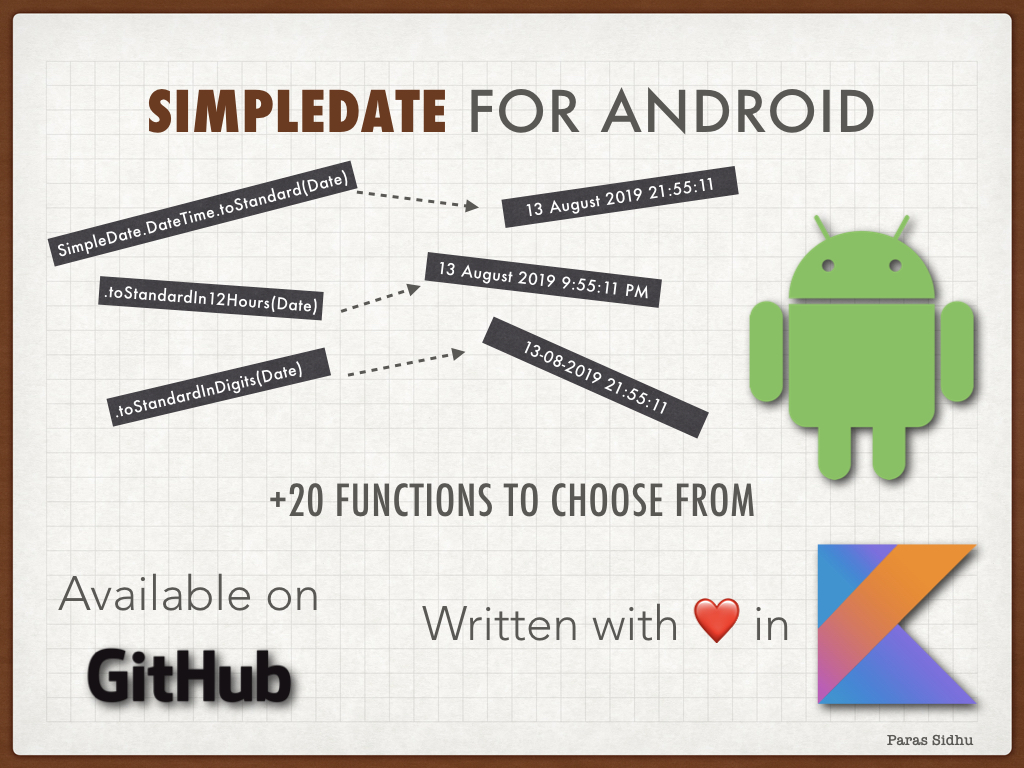
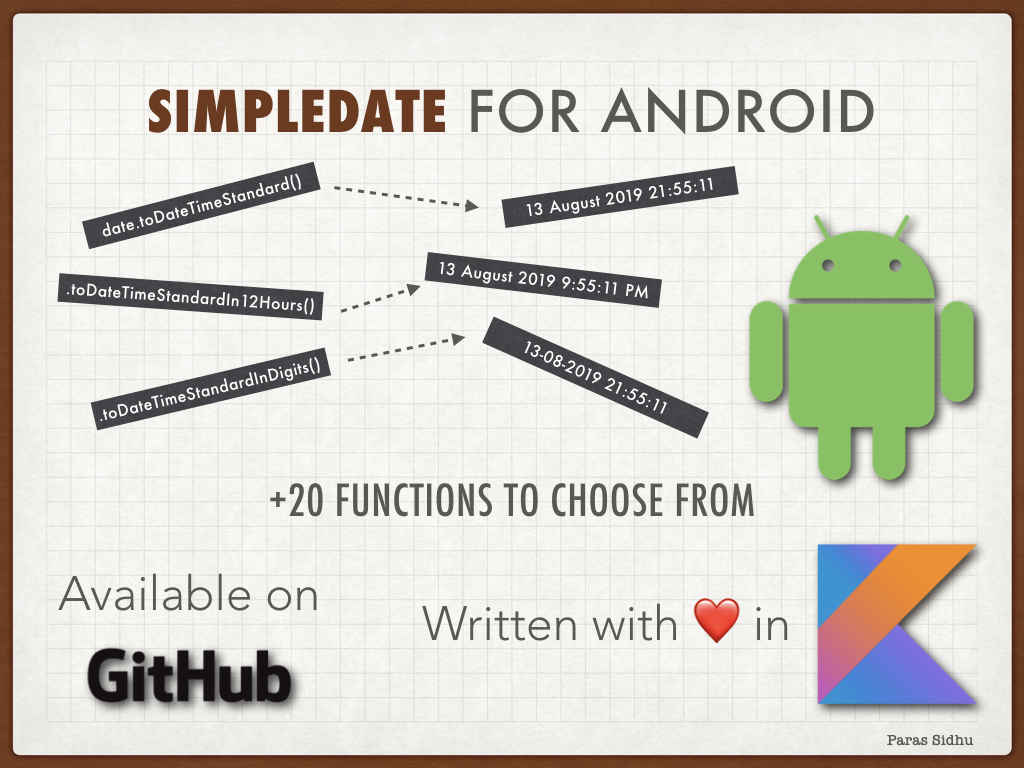
Update Main Method and README

Changed region(s): [[0.0312, 0.1875, 0.375, 0.4062], [0.0938, 0.4688, 0.3125, 0.5625], [0.4062, 0.4375, 0.4688, 0.4688]]

diff --git a/simpledate/src/main/java/com/parassidhu/simpledate/SimpleDate.kt b/simpledate/src/main/java/com/parassidhu/simpledate/SimpleDate.kt
@@ -5,36 +5,36 @@ import java.util.*
 
 private lateinit var simpleDateFormat: SimpleDateFormat
 
-fun main() {
+/*fun main() {
     val date = Date()
 
-    /*println(SimpleDate.DateTime.toStandard(date))
-    println(SimpleDate.DateTime.toStandardIn12Hours(date))
-    println(SimpleDate.DateTime.toStandardInDigits(date))
-    println(SimpleDate.DateTime.toStandardInDigitsAnd12Hours(date))
-    println(SimpleDate.DateTime.toStandardConcise(date))
-    println(SimpleDate.DateTime.toStandardConciseIn12Hours(date))
-    println(SimpleDate.DateTime.toYY(date))
-    println(SimpleDate.DateTime.toYYIn12Hours(date))
-    println(SimpleDate.DateTime.toYYInDigits(date))
-    println(SimpleDate.DateTime.toYYInDigitsAnd12Hours(date))
-    println(SimpleDate.DateTime.toYYConcise(date))
-    println(SimpleDate.DateTime.toYYConciseIn12Hours(date))
+    println(date.toDateTimeStandard())
+    println(date.toDateTimeStandardIn12Hours())
+    println(date.toDateTimeStandardInDigits())
+    println(date.toDateTimeStandardInDigitsAnd12Hours())
+    println(date.toDateTimeStandardConcise())
+    println(date.toDateTimeStandardConciseIn12Hours())
+    println(date.toDateTimeYY())
+    println(date.toDateTimeYYIn12Hours())
+    println(date.toDateTimeYYInDigits())
+    println(date.toDateTimeYYInDigitsAnd12Hours())
+    println(date.toDateTimeYYConcise())
+    println(date.toDateTimeYYConciseIn12Hours())
     println("-----------------------------------------")
-    println(SimpleDate.Time.toStandard(date))
-    println(SimpleDate.Time.toStandardWithoutSeconds(date))
-    println(SimpleDate.Time.toStandardIn12Hours(date))
-    println(SimpleDate.Time.toStandardIn12HoursWithoutSeconds(date))
+    println(date.toTimeStandard())
+    println(date.toTimeStandardWithoutSeconds())
+    println(date.toTimeStandardIn12Hours())
+    println(date.toTimeStandardIn12HoursWithoutSeconds())
     println("-----------------------------------------")
-    println(SimpleDate.Date.toStandard(date))
-    println(SimpleDate.Date.toStandardConcise(date))
-    println(SimpleDate.Date.toStandardInDigits(date))
-    println(SimpleDate.Date.toYY(date))
-    println(SimpleDate.Date.toYYConcise(date))
-    println(SimpleDate.Date.toYYInDigits(date))
+    println(date.toDateStandard())
+    println(date.toDateStandardConcise())
+    println(date.toDateStandardInDigits())
+    println(date.toDateYY())
+    println(date.toDateYYConcise())
+    println(date.toDateYYInDigits())
     println("-----------------------------------------")
-    println(SimpleDate.Day.toDay(date))*/
-}
+    println(date.toDay())
+}*/
 
 // -------------------------- DateTime --------------------------
 
@@ -155,9 +155,9 @@ fun Date?.toDateYYInDigits(): String {
 
 // -------------------------- Day --------------------------
 
-fun toDay(date: Date?): String {
+fun Date?.toDay(): String {
     val pattern = "EEEE"
-    return dateAsString(date, pattern)
+    return dateAsString(this, pattern)
 }
 // ---------------------------------------------------------
 

diff --git a/README.md b/README.md
@@ -26,44 +26,65 @@ dependencies {
 }
 ```
 
+## Version 2.0+ Backward Incompatible
+
+`SimpleDate` uses Kotlin Extension Functions since Version 2.0. This makes it incompatible with the older versions of the library. But thanks to extension functions, the API looks very clean on Kotlin as well as Java. 
+
 ## Usage
 
-As an input, you only need a Date object. Following are the available functions:
+You can use the methods on a date object. Following are the available functions:
 
+### For Date and Time
 ```kotlin
-SimpleDate.DateTime                                 
-                    .toStandard(date)               // 13 August 2019 21:55:11
-                    .toStandardIn12Hours(date)      // 13 August 2019 9:55:11 PM
-                    .toStandardInDigits(date)       // 13-08-2019 21:55:11
-                    .toStandardInDigitsAnd12Hours(date)     // 13-08-2019 9:55:11 PM
-                    .toStandardConcise(date)                // 13 Aug 2019 21:55:11
-                    .toStandardConciseIn12Hours(date)       // 13 Aug 2019 9:55:11 PM
-                    .toYY(date)                     // 13 August 19 21:55:11
-                    .toYYIn12Hours(date)            // 13 August 19 9:55:11 PM
-                    .toYYInDigits(date)             // 13-08-19 21:55:11
-                    .toYYInDigitsAnd12Hours(date)   // 13-08-19 9:55:11 PM
-                    .toYYConcise(date)              // 13 Aug 19 21:55:11
-                    .toYYConciseIn12Hours(date)     // 13 Aug 19 9:55:11 PM
+date                                 
+     .toDateTimeStandard()               // 13 August 2019 21:55:11
+     .toDateTimeStandardIn12Hours()      // 13 August 2019 9:55:11 PM
+     .toDateTimeStandardInDigits()       // 13-08-2019 21:55:11
+     .toDateTimeStandardInDigitsAnd12Hours()     // 13-08-2019 9:55:11 PM
+     .toDateTimeStandardConcise()                // 13 Aug 2019 21:55:11
+     .toDateTimeStandardConciseIn12Hours()       // 13 Aug 2019 9:55:11 PM
+     .toDateTimeYY()                     // 13 August 19 21:55:11
+     .toDateTimeYYIn12Hours()            // 13 August 19 9:55:11 PM
+     .toDateTimeYYInDigits()             // 13-08-19 21:55:11
+     .toDateTimeYYInDigitsAnd12Hours()   // 13-08-19 9:55:11 PM
+     .toDateTimeYYConcise()              // 13 Aug 19 21:55:11
+     .toDateTimeYYConciseIn12Hours()     // 13 Aug 19 9:55:11 PM
                     
 ```
+### For Time Only
 ```kotlin
-SimpleDate.Time
-                    .toStandard(date)                           // 21:55:11
-                    .toStandardWithoutSeconds(date)             // 21:55
-                    .toStandardIn12Hours(date)                  // 9:55:11 PM
-                    .toStandardIn12HoursWithoutSeconds(date)    // 9:55 PM
+date
+     .toTimeStandard()                           // 21:55:11
+     .toTimeStandardWithoutSeconds()             // 21:55
+     .toTimeStandardIn12Hours()                  // 9:55:11 PM
+     .toTimeStandardIn12HoursWithoutSeconds()    // 9:55 PM
 ```
+### For Date Only
 ```kotlin
-SimpleDate.Date
-                    .toStandard(date)               // 13 August 2019
-                    .toStandardConcise(date)        // 13 Aug 2019
-                    .toStandardInDigits(date)       // 13-08-2019
-                    .toYY(date)                     // 13 August 19
-                    .toYYConcise(date)              // 13 Aug 19
-                    .toYYInDigits(date)             // 13-08-19
+date
+      .toDateStandard()               // 13 August 2019
+      .toDateStandardConcise()        // 13 Aug 2019
+      .toDateStandardInDigits()       // 13-08-2019
+      .toDateYY()                     // 13 August 19
+      .toDateYYConcise()              // 13 Aug 19
+      .toDateYYInDigits()             // 13-08-19
 ```
+### For Day Only
 ```kotlin
-SimpleDate.Day.toDay(date)                    // Tuesday
+date.toDay()                    // Tuesday
+```
+
+## Examples
+
+- <b>Kotlin</b>:
+```kotlin
+   val date = Date()
+   println(date.toDateTimeStandard())
+```
+- <b>Java</b>:
+```java
+    Date date = new Date();
+    System.out.println(SimpleDateKt.toDateTimeStandard(date));
 ```
 
 ## Contributions
@@ -72,4 +93,6 @@ SimpleDate.Day.toDay(date)                    // Tuesday
 - Create a new branch and make changes
 - Push the code to the branch and make a PR! :thumbsup:
 
-Special thanks to <a href="https://github.com/amy6">Mahima</a> for testing out the early version and helping in bug fix :clap:
+## Special Thanks
+- to <a href="https://github.com/amy6">Mahima</a> for testing out the early version and helping in bug fix :clap:
+- to <a href="https://github.com/xsahil03x">Sahil</a> for suggesting the use of Kotlin Extension Functions :heart: 
